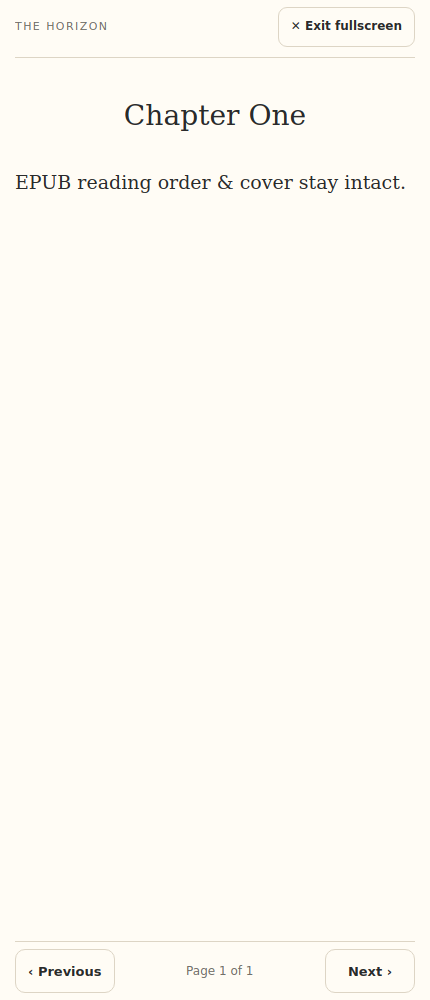
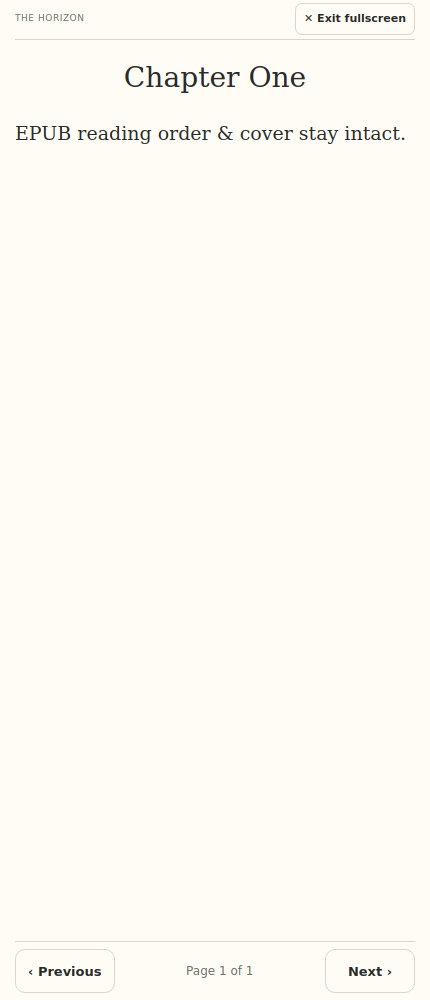
Compact the fullscreen reader header and top spacing in Android 2.3.4

Changed region(s): [[0.0302, 0.0, 0.9674, 0.186], [0.0302, 0.0, 0.2419, 0.031]]

diff --git a/app/src/main/assets/www/index.html b/app/src/main/assets/www/index.html
@@ -466,6 +466,15 @@ body.in-bookcase{background:#101b24}.in-bookcase .main-content{padding:0;max-wid
 .bookcase-inspection{position:fixed;inset:0;z-index:55;perspective:1300px;isolation:isolate}.bookcase-inspect-shade{position:absolute;inset:0;width:100%;height:100%;border:0;background:#06131cbf;backdrop-filter:blur(4px);opacity:0;transition:opacity .5s}.bookcase-inspection.is-open .bookcase-inspect-shade{opacity:1}.bookcase-inspect-return{position:absolute;top:10px;left:50%;transform:translateX(-50%);min-height:44px;padding:10px 18px;border:1px solid #83bfb7;border-radius:24px;background:#132f37ed;color:#e3f6ec;font:13px var(--font-ui,sans-serif);white-space:nowrap;z-index:3}.bookcase-inspect-hint{position:absolute;bottom:max(16px,env(safe-area-inset-bottom));left:20px;right:20px;margin:0;text-align:center;color:#d3e8e1;font:12px/1.5 var(--font-ui,sans-serif);pointer-events:none;z-index:3}.bookcase-book.bookcase-inspected{--book-w:100%;--book-h:100%;position:fixed;margin:0;min-width:0;max-width:none;padding:0;z-index:2;touch-action:none;cursor:zoom-in;transition:left .55s cubic-bezier(.2,.7,.2,1),top .55s cubic-bezier(.2,.7,.2,1),width .55s cubic-bezier(.2,.7,.2,1),height .55s cubic-bezier(.2,.7,.2,1);perspective:none;outline-offset:6px}.bookcase-inspected .bookcase-volume{width:100%;height:100%;transform-style:preserve-3d;transform-origin:center;transition:transform .55s cubic-bezier(.2,.7,.2,1)}.bookcase-inspected:hover .bookcase-volume{transform:none}.bookcase-inspected .bookcase-cover{box-shadow:5px 12px 25px #0009}.bookcase-inspected .bookcase-cover img{object-fit:fill}.bookcase-book-back{position:absolute;inset:0;display:block;border-radius:4px 3px 3px 4px;transform:rotateY(180deg) translateZ(1px);backface-visibility:hidden;overflow:hidden;background:linear-gradient(140deg,#274a49,#142a30);box-shadow:0 16px 50px #0009;border:1px solid #c5b88a88}.bookcase-book-back>img{display:block;width:100%;height:100%;object-fit:fill;transform-origin:var(--pan-x,50%) var(--pan-y,50%);transition:transform .2s ease;user-select:none;pointer-events:none}.bookcase-book-back.is-zoomed>img{transform:scale(2)}.bookcase-inspect-missing{width:100%;height:100%;box-sizing:border-box;display:flex;flex-direction:column;justify-content:center;align-items:center;gap:24px;padding:30px;color:#f0e0b6;text-align:center;font:19px/1.5 Georgia,serif;border:6px double #ab946b88}.bookcase-inspect-missing strong{font:28px/1.3 Georgia,serif}.bookcase-inspect-missing small{font:13px/1.6 var(--font-ui,sans-serif);color:#c1d1c8}.bookcase-inspection button:focus-visible{outline:3px solid #79ddc9}.bookcase-inspected:after{display:none}.bookcase-inspect-slot{display:block;pointer-events:none}
 @media(prefers-reduced-motion:reduce){.bookcase-book.bookcase-inspected,.bookcase-inspected .bookcase-volume,.bookcase-inspect-shade,.bookcase-book-back>img{transition:none}}
 
+</style><style>
+/* Compact running header in both native and fallback fullscreen readers. */
+.ebook-layout.ebook-immersive{padding-top:calc(3px + env(safe-area-inset-top))}
+.ebook-layout.ebook-immersive .ebook-running-head{min-height:32px;gap:8px;padding:0 0 4px;font-size:9px;line-height:1.25;letter-spacing:.06em}
+.ebook-layout.ebook-immersive .ebook-running-head>span{min-width:0;flex:1}
+.ebook-layout.ebook-immersive .ebook-exit-button{min-height:32px;padding:5px 8px;border-radius:7px;font-size:11px}
+.ebook-layout.ebook-immersive .ebook-viewport{margin-top:6px}
+.ebook-layout.ebook-immersive .ebook-column-flow .ebook-chapter-title{margin:.5em .2em .75em}
+
 </style></head>
 <body>
 <div class="app" id="app">

diff --git a/tools/reader-fullscreen.css b/tools/reader-fullscreen.css
@@ -1,0 +1,7 @@
+/* Compact running header in both native and fallback fullscreen readers. */
+.ebook-layout.ebook-immersive{padding-top:calc(3px + env(safe-area-inset-top))}
+.ebook-layout.ebook-immersive .ebook-running-head{min-height:32px;gap:8px;padding:0 0 4px;font-size:9px;line-height:1.25;letter-spacing:.06em}
+.ebook-layout.ebook-immersive .ebook-running-head>span{min-width:0;flex:1}
+.ebook-layout.ebook-immersive .ebook-exit-button{min-height:32px;padding:5px 8px;border-radius:7px;font-size:11px}
+.ebook-layout.ebook-immersive .ebook-viewport{margin-top:6px}
+.ebook-layout.ebook-immersive .ebook-column-flow .ebook-chapter-title{margin:.5em .2em .75em}

diff --git a/tools/package-speech.py b/tools/package-speech.py
@@ -60,4 +60,5 @@ replace("if(!b)return pageTitle('READ ONLY','No book selected','Select a book to
 
 a=s.index('function epubPage(');b=s.index('function buildBookEpub(',a)
 s=s[:a]+'''function epubPage(title,body){return `<?xml version="1.0" encoding="UTF-8"?><html xmlns="http://www.w3.org/1999/xhtml" xmlns:epub="http://www.idpf.org/2007/ops"><head><meta charset="utf-8"/><title>${xmlEscape(title)}</title><link rel="stylesheet" type="text/css" href="style.css"/></head><body>${body}</body></html>`}\n'''+s[b:]
+s=s.replace('</head>','<style>\n'+(root/'tools/reader-fullscreen.css').read_text()+'\n</style></head>',1)
 p.write_text(s)

diff --git a/VALIDATION.md b/VALIDATION.md
@@ -1,5 +1,14 @@
 # Completed validation
 
+Version 2.3.4 compacts the fullscreen running header in both native and fallback
+modes: 9px book title, a 32px exit control, smaller header gaps and top padding,
+and less space around the chapter heading. Manuscript font settings and regular
+Read layout are retained. Safe-area top padding remains in place.
+
+The existing bundled-UI flow passes, including fullscreen, fallback, Back return,
+bookmarks, and the bookcase interactions. The updated phone reader screenshot
+was visually checked. Android unit tests, assembly and lint pass.
+
 Version 2.3.3 makes Bookcase → Open book select ebook mode and enter the
 fullscreen reader automatically. A UI-only return trip retains the selected
 book and shelf/window scroll offsets. Exiting via the reader button, browser

diff --git a/README.md b/README.md
@@ -1,4 +1,4 @@
-# NovelWeaver for Android 2.3.3
+# NovelWeaver for Android 2.3.4
 
 An Android app with the current NovelWeaver editing interface and engine bundled
 offline. The native Android host handles files, Android Keystore encryption,
